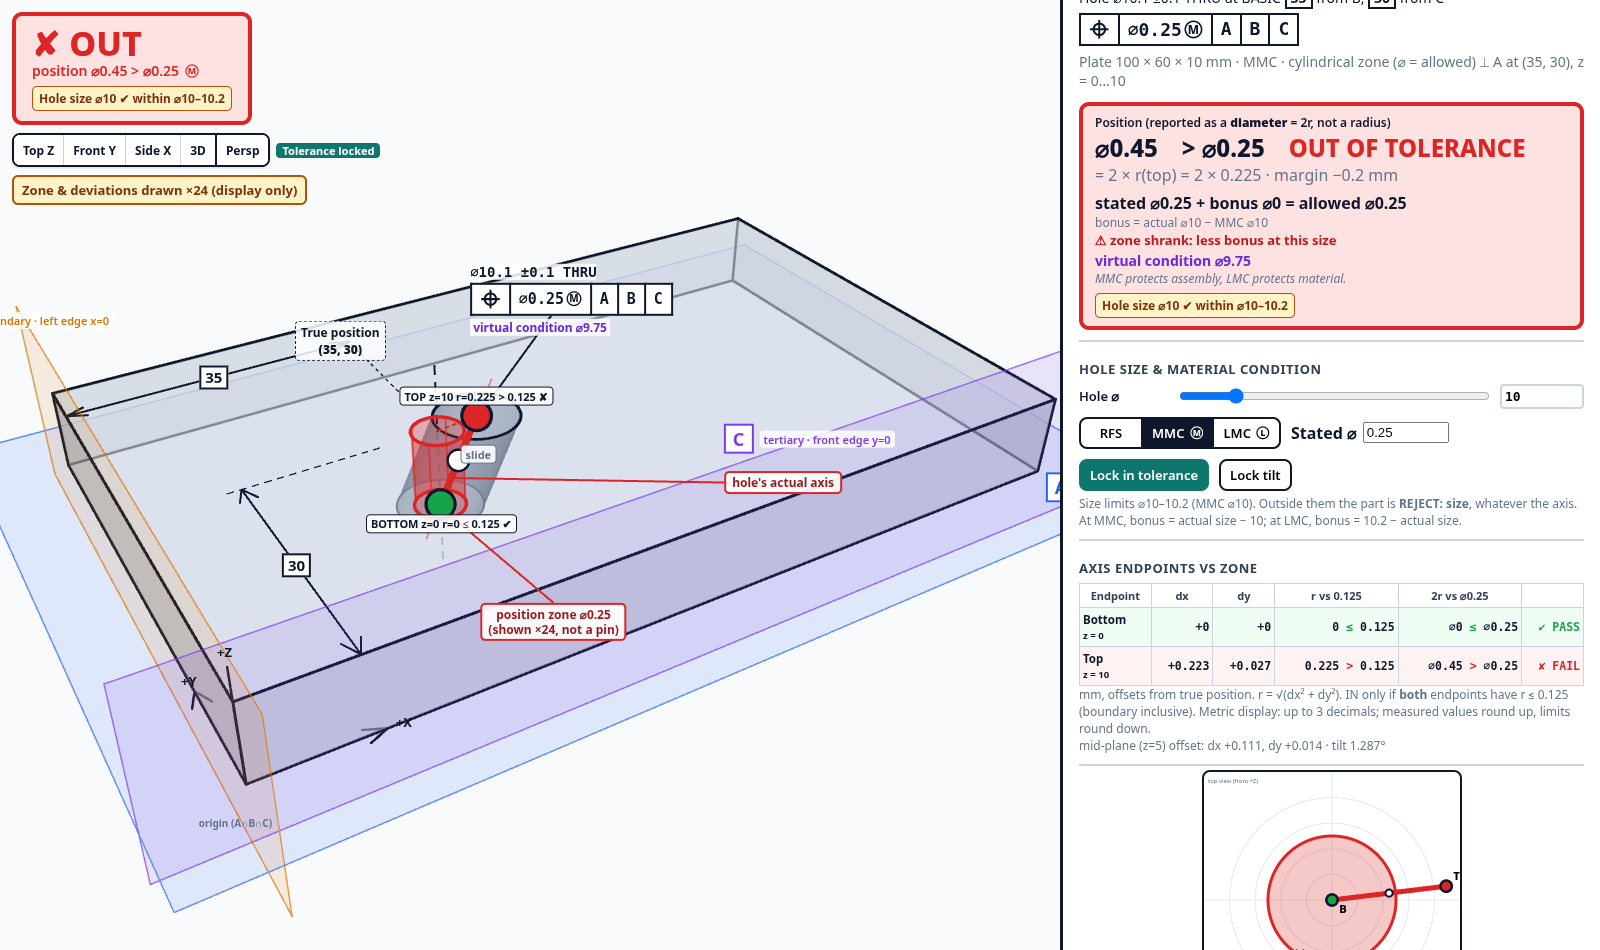
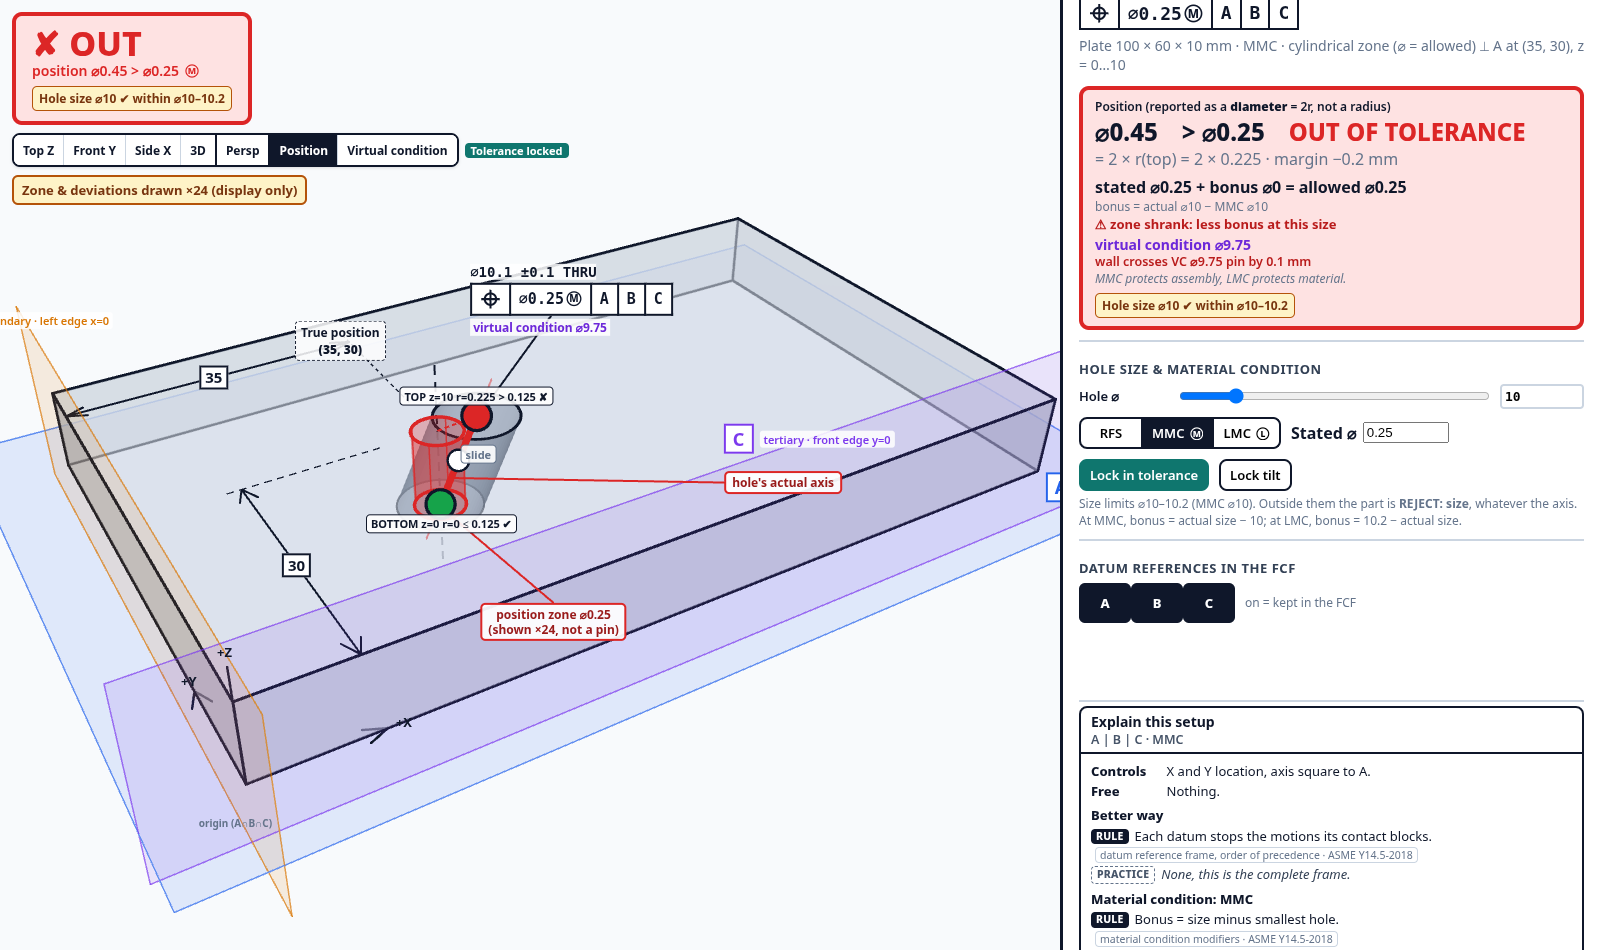
Explainer: Sally's final wording for the basic-dimension Rule

Changed region(s): [[0.6562, 0.58, 1.0, 1.0], [0.6562, 0.0, 1.0, 0.3053], [0.1562, 0.1221, 0.375, 0.1832]]

diff --git a/src/explain-copy.js b/src/explain-copy.js
@@ -30,14 +30,14 @@ export const DATUM_COPY = {
     controls: 'Axis square to A, X location.',
     free: 'Sliding in Y.',
     note: '',
-    better: [R('A direction with no datum has nothing locating it.', 'datum reference frame'), R('Basic dimensions take no default tolerance. With this datum dropped, the frame no longer locates the hole in that direction; a separate tolerance would be needed.', 'basic dimensions'), P('Add C unless Y is free on purpose.')],
+    better: [R('A direction with no datum has nothing locating it.', 'datum reference frame'), R('Basic dimensions take no default tolerance. With this datum dropped, this frame no longer locates the hole in that direction; a separate toleranced dimension or another control is needed.', 'basic dimensions'), P('Add C unless Y is free on purpose.')],
   },
   AC: {
     label: 'A | C (B dropped)',
     controls: 'Axis square to A, Y location.',
     free: 'Sliding in X.',
     note: '',
-    better: [R('A direction with no datum has nothing locating it.', 'datum reference frame'), R('Basic dimensions take no default tolerance. With this datum dropped, the frame no longer locates the hole in that direction; a separate tolerance would be needed.', 'basic dimensions'), P('Add B unless X is free on purpose.')],
+    better: [R('A direction with no datum has nothing locating it.', 'datum reference frame'), R('Basic dimensions take no default tolerance. With this datum dropped, this frame no longer locates the hole in that direction; a separate toleranced dimension or another control is needed.', 'basic dimensions'), P('Add B unless X is free on purpose.')],
   },
   A: {
     label: 'A only (B and C dropped)',
@@ -46,7 +46,7 @@ export const DATUM_COPY = {
     note: '',
     better: [
       R('With no location datums, the basic dimensions locate nothing.', 'basic dimensions'),
-      R('Basic dimensions take no default tolerance. With this datum dropped, the frame no longer locates the hole in that direction; a separate tolerance would be needed.', 'basic dimensions'),
+      R('Basic dimensions take no default tolerance. With this datum dropped, this frame no longer locates the hole in that direction; a separate toleranced dimension or another control is needed.', 'basic dimensions'),
       P('Use perpendicularity to A: it says what is controlled, while position implies a location that is not.'),
     ],
   },
@@ -65,7 +65,7 @@ export const DATUM_COPY = {
     controls: 'Location across {P}, axis parallel to {P}.',
     free: "Sliding along {P} and tilting about {P}'s normal.",
     note: 'Simplified, this lesson keeps the zone vertical.',
-    better: [R('Basic dimensions take no default tolerance. With this datum dropped, the frame no longer locates the hole in that direction; a separate tolerance would be needed.', 'basic dimensions'), P('Add A first.')],
+    better: [R('Basic dimensions take no default tolerance. With this datum dropped, this frame no longer locates the hole in that direction; a separate toleranced dimension or another control is needed.', 'basic dimensions'), P('Add A first.')],
   },
   none: {
     label: 'No datums',

diff --git a/tests/explain.test.js b/tests/explain.test.js
@@ -85,7 +85,7 @@ test('entries 1 (A|B|C) and 5 (B|C) cite order of precedence on their Rule lines
 });
 
 test('basic-dimension rule shows exactly where B and/or C is dropped (location freed)', () => {
-  const t = 'Basic dimensions take no default tolerance. With this datum dropped, the frame no longer locates the hole in that direction; a separate tolerance would be needed.';
+  const t = 'Basic dimensions take no default tolerance. With this datum dropped, this frame no longer locates the hole in that direction; a separate toleranced dimension or another control is needed.';
   for (const k of ['AB', 'AC', 'A', 'BorC']) assert.ok(DATUM_COPY[k].better.some((l) => l.type === 'rule' && l.text === t), k);
   for (const k of ['ABC', 'BC', 'none']) assert.ok(!DATUM_COPY[k].better.some((l) => l.text === t), k);
 });
